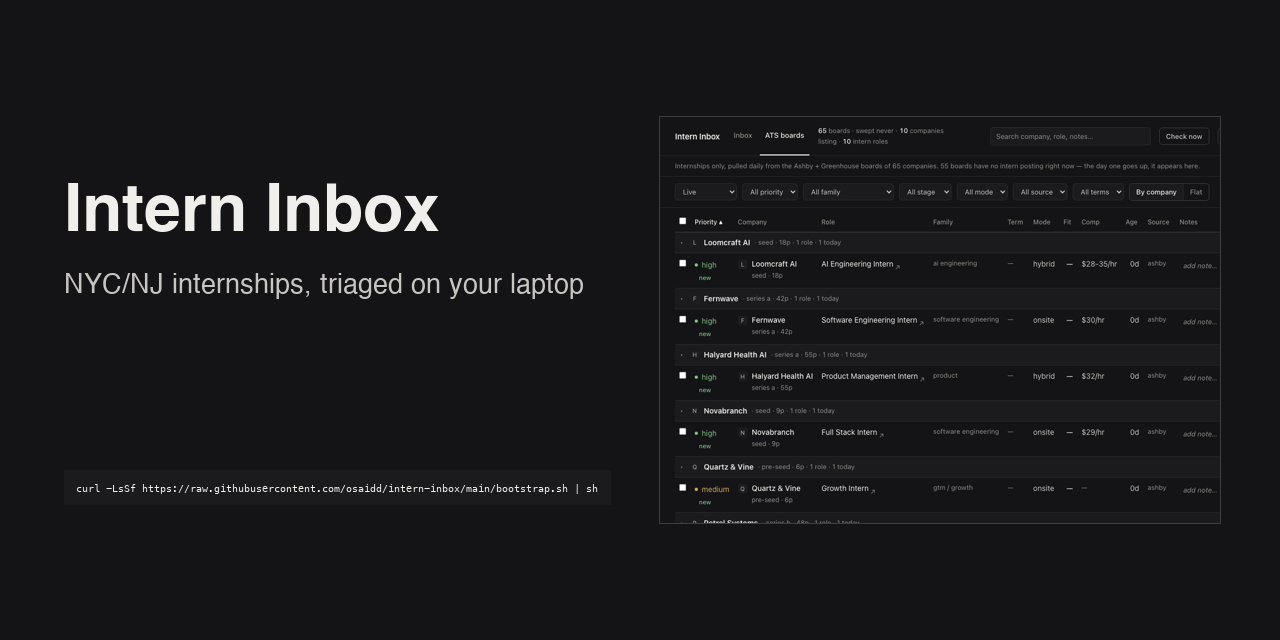
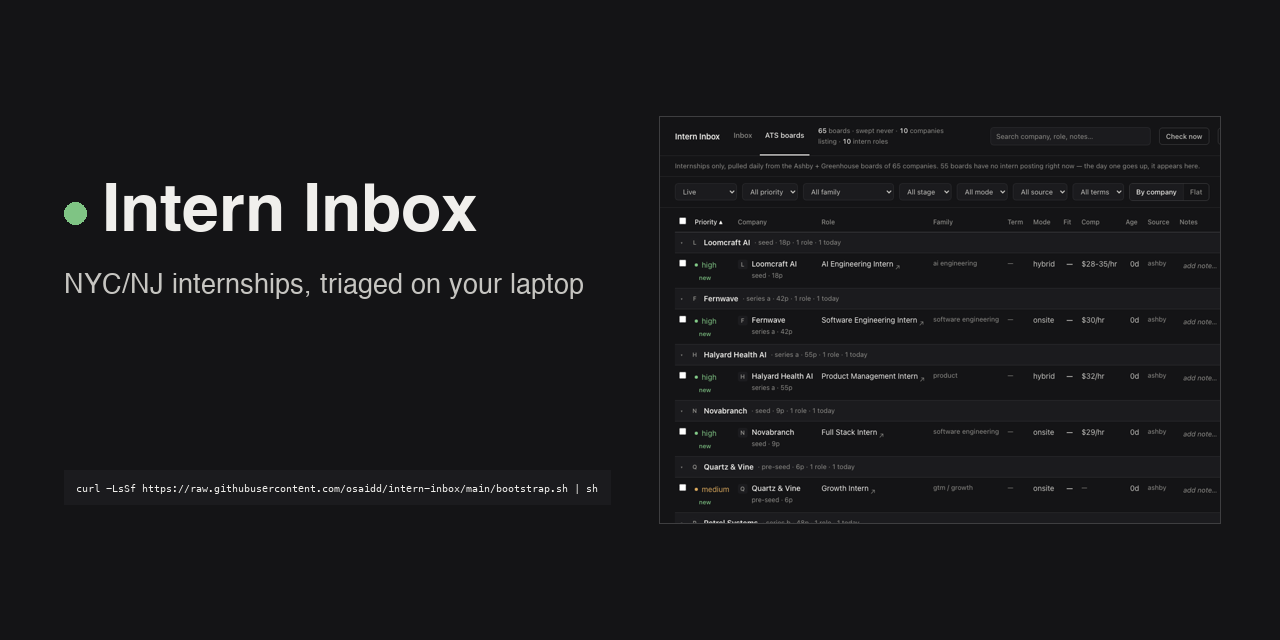
docs(landing): glow-up — live-dot wordmark, framed demo window, committed green accent, demo CTA; card matches; a11y live-region fix

Changed region(s): [[0.0312, 0.2812, 0.375, 0.375]]

diff --git a/docs/index.html b/docs/index.html
@@ -39,6 +39,8 @@
   --rhythm: clamp(52px, 8vw, 88px);
   --lh: 1.7;
   --ease: cubic-bezier(0.22, 1, 0.36, 1);
+  --glow: rgba(127, 196, 132, 0.07);
+  --ok-ink: #10130f;
 }
 @media (prefers-color-scheme: light) {
   :root {
@@ -54,6 +56,8 @@
     --ok: #26682f;
     --rule: rgba(0, 0, 0, 0.46);
     --lh: 1.65;
+    --glow: rgba(38, 104, 47, 0.05);
+    --ok-ink: #f0efec;
   }
 }
 
@@ -83,17 +87,25 @@ code, kbd { font-family: var(--mono); }
 
 h1, h2, h3 { color: var(--ink); text-wrap: balance; letter-spacing: -0.02em; }
 h1 {
-  font-size: clamp(2.4rem, 1.62rem + 3.3vw, 4rem);
-  font-weight: 600;
-  line-height: 1.04;
-  letter-spacing: -0.028em;
+  font-size: clamp(2.6rem, 1.6rem + 4.2vw, 4.6rem);
+  font-weight: 650;
+  line-height: 1.02;
+  letter-spacing: -0.03em;
 }
 h2 { font-size: clamp(1.4rem, 1.22rem + 0.75vw, 1.8rem); font-weight: 600; line-height: 1.22; }
 h3 { font-size: 1.0625rem; font-weight: 600; line-height: 1.4; letter-spacing: -0.012em; }
 p { text-wrap: pretty; max-width: 68ch; }
 
 /* ---------- hero ---------- */
-.hero { padding: clamp(48px, 9vw, 96px) 0 clamp(34px, 5.5vw, 56px); }
+.hero {
+  padding: clamp(52px, 9.5vw, 104px) 0 clamp(34px, 5.5vw, 56px);
+  background:
+    radial-gradient(58rem 30rem at 18% -12%, var(--glow), transparent 62%),
+    radial-gradient(40rem 22rem at 88% -18%, var(--glow), transparent 58%);
+}
+.mark { display: inline-block; width: 0.34em; height: 0.34em; margin-right: 0.3em;
+  border-radius: 50%; background: var(--ok); vertical-align: 0.06em; }
+.deck .dot { color: var(--ok); }
 .hero .deck {
   color: var(--ink);
   font-size: clamp(1.1rem, 1rem + 0.5vw, 1.4rem);
@@ -105,8 +117,35 @@ p { text-wrap: pretty; max-width: 68ch; }
 }
 .hero .scope { margin-top: 14px; color: var(--text); max-width: 58ch; }
 
+.cta-row { display: flex; flex-wrap: wrap; align-items: center; gap: 14px 18px; margin-top: clamp(22px, 3.4vw, 30px); }
+.btn-demo {
+  display: inline-block;
+  font-weight: 600;
+  font-size: 15px;
+  color: var(--ok-ink);
+  background: var(--ok);
+  border: 0;
+  border-radius: var(--radius);
+  padding: 11px 20px;
+  text-decoration: none;
+  transition: filter 0.15s ease-out, transform 0.15s var(--ease);
+}
+.btn-demo:hover { filter: brightness(1.08); }
+.btn-demo:active { transform: translateY(1px); }
+.cta-row .or { color: var(--muted); font-size: 14px; }
+.cta-row .or a { color: var(--text); }
+
 figure { margin: clamp(28px, 4.5vw, 40px) 0 0; }
-figure img { display: block; width: 100%; border: 1px solid var(--line); border-radius: var(--radius); }
+.window { border: 1px solid var(--line-strong); border-radius: 10px; overflow: hidden;
+  background: var(--surface); box-shadow: inset 0 1px 0 rgba(255, 255, 255, 0.05); }
+.titlebar { display: flex; align-items: center; gap: 7px; padding: 9px 12px;
+  background: var(--raised); border-bottom: 1px solid var(--line); }
+.titlebar .tdot { width: 9px; height: 9px; border-radius: 50%; background: var(--line-strong); }
+.titlebar .tdot.live { background: var(--ok); }
+.titlebar .url { margin-left: 8px; color: var(--muted); font-family: var(--mono); font-size: 11.5px;
+  letter-spacing: 0.01em; user-select: none; -webkit-user-select: none; }
+.window img { display: block; width: 100%; border: 0; border-radius: 0; }
+figure > img { display: block; width: 100%; border: 1px solid var(--line); border-radius: var(--radius); }
 figcaption { margin-top: 12px; color: var(--muted); font-size: 13.5px; line-height: 1.55; max-width: 62ch; }
 
 /* ---------- paste commands ---------- */
@@ -150,7 +189,7 @@ figcaption { margin-top: 12px; color: var(--muted); font-size: 13.5px; line-heig
   cursor: pointer;
   transition: color 0.15s ease-out, border-color 0.15s ease-out, background-color 0.15s ease-out;
 }
-.copy:hover { color: var(--ink); border-color: var(--ink); background: var(--surface); }
+.copy:hover { color: var(--ink); border-color: var(--ok); background: var(--surface); }
 .copy[data-state="done"], .copy[data-state="done"]:hover { color: var(--ok); border-color: var(--ok); background: none; }
 .paste-hint { display: block; margin-top: 9px; color: var(--muted); font-size: 12.5px; }
 .paste-hint[hidden] { display: none; }
@@ -178,7 +217,8 @@ section { border-top: 1px solid var(--line); padding: var(--rhythm) 0; }
 .after-sources { margin-top: 26px; }
 
 /* claude code — an aside, so it gets the one panel on the page */
-.panel { background: var(--surface); border: 1px solid var(--line); border-radius: var(--radius); padding: clamp(20px, 3.4vw, 30px); }
+.panel { background: var(--surface); border: 1px solid var(--line); border-radius: 10px;
+  box-shadow: inset 0 1px 0 rgba(255, 255, 255, 0.05); padding: clamp(22px, 3.6vw, 32px); }
 .panel h2 { font-size: clamp(1.25rem, 1.14rem + 0.45vw, 1.5rem); }
 .commands { margin-top: 22px; display: grid; gap: 13px; }
 .commands li { padding-left: 0; }
@@ -230,6 +270,8 @@ footer .sep { padding: 0 8px; opacity: 0.55; }
   .hero > .wrap > *:nth-child(5) { animation-delay: 0.2s; }
   .hero > .wrap > *:nth-child(6) { animation-delay: 0.25s; }
   @keyframes rise { from { opacity: 0; transform: translateY(10px); } to { opacity: 1; transform: none; } }
+  .mark { animation: breathe 2.6s ease-in-out infinite; }
+  @keyframes breathe { 0%, 100% { opacity: 1; } 50% { opacity: 0.55; } }
 }
 </style>
 </head>
@@ -237,24 +279,32 @@ footer .sep { padding: 0 8px; opacity: 0.55; }
 
 <header class="hero">
   <div class="wrap">
-    <h1>Intern Inbox</h1>
-    <p class="deck">Every NYC &amp; NJ internship, in one inbox on your laptop.</p>
+    <h1><span class="mark" aria-hidden="true"></span>Intern Inbox</h1>
+    <p class="deck">Every NYC &amp; NJ internship, in one inbox on your laptop<span class="dot" aria-hidden="true">.</span></p>
     <p class="scope">Internships only, New York City and New Jersey only — everything else is dropped
       before it reaches you. Company job boards and your own job-alert emails land in one list that
       runs on your machine and nowhere else.</p>
 
+    <div class="cta-row">
+      <a class="btn-demo" href="https://intern-inbox-demo.fly.dev">Try the live demo</a>
+      <span class="or">read-only, invented data, resets hourly — <a href="#install">or install your own below</a></span>
+    </div>
+
     <figure>
+      <div class="window">
+        <div class="titlebar" aria-hidden="true"><span class="tdot"></span><span class="tdot"></span><span class="tdot live"></span><span class="url">127.0.0.1:8477</span></div>
       <img src="demo.gif" alt="The Intern Inbox app: a dark table of NYC internship listings being worked through row by row — hearted, killed, moved to applied — then the ATS boards tab, grouped by company." width="1280" height="800" loading="lazy" decoding="async">
+      </div>
       <figcaption>The daily loop: press Check now, then heart, kill, or mark applied down the list.</figcaption>
     </figure>
 
-    <div class="pastes">
+    <div class="pastes" id="install">
       <div class="paste">
         <span class="paste-os"><b>macOS</b> — paste into Terminal</span>
         <div class="paste-row">
           <code class="cmd"><span class="prompt" aria-hidden="true">$</span><span id="cmd-mac">curl -LsSf https://raw.githubusercontent.com/osaidd/intern-inbox/main/bootstrap.sh | sh</span></code>
           <button type="button" class="copy" data-cmd="cmd-mac" data-hint="hint-mac">
-            <span class="copy-label" aria-live="polite">Copy</span>
+            <span class="copy-label">Copy</span>
             <span class="vh"> the macOS install command</span>
           </button>
         </div>
@@ -266,7 +316,7 @@ footer .sep { padding: 0 8px; opacity: 0.55; }
         <div class="paste-row">
           <code class="cmd"><span class="prompt" aria-hidden="true">PS&gt;</span><span id="cmd-win">irm https://raw.githubusercontent.com/osaidd/intern-inbox/main/bootstrap.ps1 | iex</span></code>
           <button type="button" class="copy" data-cmd="cmd-win" data-hint="hint-win">
-            <span class="copy-label" aria-live="polite">Copy</span>
+            <span class="copy-label">Copy</span>
             <span class="vh"> the Windows install command</span>
           </button>
         </div>
@@ -275,6 +325,7 @@ footer .sep { padding: 0 8px; opacity: 0.55; }
     </div>
 
     <p class="hero-note">Either paste ends with the app open in your browser. That's the whole install.</p>
+    <span class="vh" aria-live="polite" id="copy-status"></span>
   </div>
 </header>
 
@@ -442,7 +493,7 @@ footer .sep { padding: 0 8px; opacity: 0.55; }
 
 <footer>
   <div class="wrap">
-    <p><a href="https://github.com/osaidd/intern-inbox">github.com/osaidd/intern-inbox</a></p>
+    <p><a href="https://github.com/osaidd/intern-inbox">github.com/osaidd/intern-inbox</a><span class="sep" aria-hidden="true">·</span><a href="https://intern-inbox-demo.fly.dev">live demo</a></p>
     <p class="meta">
       <span>MIT licensed.</span><span class="sep" aria-hidden="true">·</span><span>Built by a NOC New York student.</span>
     </p>
@@ -454,10 +505,12 @@ footer .sep { padding: 0 8px; opacity: 0.55; }
   var RESET = 2000;
   var isMac = /Mac|iPhone|iPad/.test(navigator.userAgent || "");
 
+  var live = document.getElementById("copy-status");
   function flash(btn, label, hint, state) {
     var labelEl = btn.querySelector(".copy-label");
     var hintEl = btn.dataset.hint ? document.getElementById(btn.dataset.hint) : null;
     labelEl.textContent = label;
+    if (live) { live.textContent = label === "Copy" ? "" : label; }
     btn.dataset.state = state;
     if (hintEl) { hintEl.hidden = !hint; }
     clearTimeout(btn._t);

diff --git a/automation/social_card.py b/automation/social_card.py
@@ -1,9 +1,10 @@
 """Generate docs/social-card.png (1280x640) for link-preview cards: an
-app-shell-dark background, title + one-paste command on the left, a framed
-crop of the ATS grouped view on the right. Frame source dir is argv[1] so
-this stays runnable whenever the demo frames are re-recorded.
+app-shell-dark background, green live-dot + title + one-paste command on the
+left, a framed crop of the ATS grouped view on the right. Defaults to the
+committed docs/screenshot.png (a demo frame) as both color source and panel;
+pass a screenshot path as argv[1] to use a different one.
 
-Usage: uv run --with pillow python automation/social_card.py <frames_dir>
+Usage: uv run --with pillow python automation/social_card.py [screenshot.png]
 """
 import sys
 from pathlib import Path
@@ -14,7 +15,7 @@ REPO = Path(__file__).resolve().parent.parent
 SYSTEM_FONTS = Path("/System/Library/Fonts")
 CMD = "curl -LsSf https://raw.githubusercontent.com/osaidd/intern-inbox/main/bootstrap.sh | sh"
 W, H = 1280, 640
-INK, TEXT, CHIP = (240, 239, 236), (198, 197, 193), (27, 27, 30)
+INK, TEXT, CHIP, OK = (240, 239, 236), (198, 197, 193), (27, 27, 30), (127, 196, 132)
 
 
 def load_font(primary: Path, size: int, index: int = 0) -> ImageFont.FreeTypeFont:
@@ -31,16 +32,16 @@ def hairline(bg: tuple, opacity: float = 0.18) -> tuple:
     return tuple(round(c * (1 - opacity) + 255 * opacity) for c in bg)
 
 
-def main(frames_dir: Path) -> None:
-    frame01 = sorted(frames_dir.glob("01-*.png"))[0]
-    frame07 = sorted(frames_dir.glob("07-*.png"))[0]
-    bg = Image.open(frame01).convert("RGB").getpixel((2, 2))
+def main(shot_path: Path) -> None:
+    shot_src = Image.open(shot_path).convert("RGB")
+    bg = shot_src.getpixel((2, 2))
 
     card = Image.new("RGB", (W, H), bg)
     draw = ImageDraw.Draw(card)
     margin = 64
 
-    draw.text((margin, 180), "Intern Inbox",
+    draw.ellipse((margin, 202, margin + 22, 224), fill=OK)
+    draw.text((margin + 38, 180), "Intern Inbox",
               font=load_font(SYSTEM_FONTS / "Helvetica.ttc", 66, index=1), fill=INK)
     draw.text((margin, 272), "NYC/NJ internships, triaged on your laptop",
               font=load_font(SYSTEM_FONTS / "Helvetica.ttc", 27), fill=TEXT)
@@ -55,8 +56,7 @@ def main(frames_dir: Path) -> None:
     draw.rectangle(chip, fill=CHIP)
     draw.text((margin + 12, top + 12), CMD, font=mono, fill=INK)
 
-    shot = Image.open(frame07).convert("RGB")
-    shot = shot.crop((0, 0, int(shot.width * 0.82), int(shot.height * 0.95)))
+    shot = shot_src.crop((0, 0, int(shot_src.width * 0.82), int(shot_src.height * 0.95)))
     box = 560
     scale = min(box / shot.width, box / shot.height)
     shot = shot.resize((round(shot.width * scale), round(shot.height * scale)))
@@ -70,4 +70,4 @@ def main(frames_dir: Path) -> None:
 
 
 if __name__ == "__main__":
-    main(Path(sys.argv[1]))
+    main(Path(sys.argv[1]) if len(sys.argv) > 1 else REPO / "docs" / "screenshot.png")
